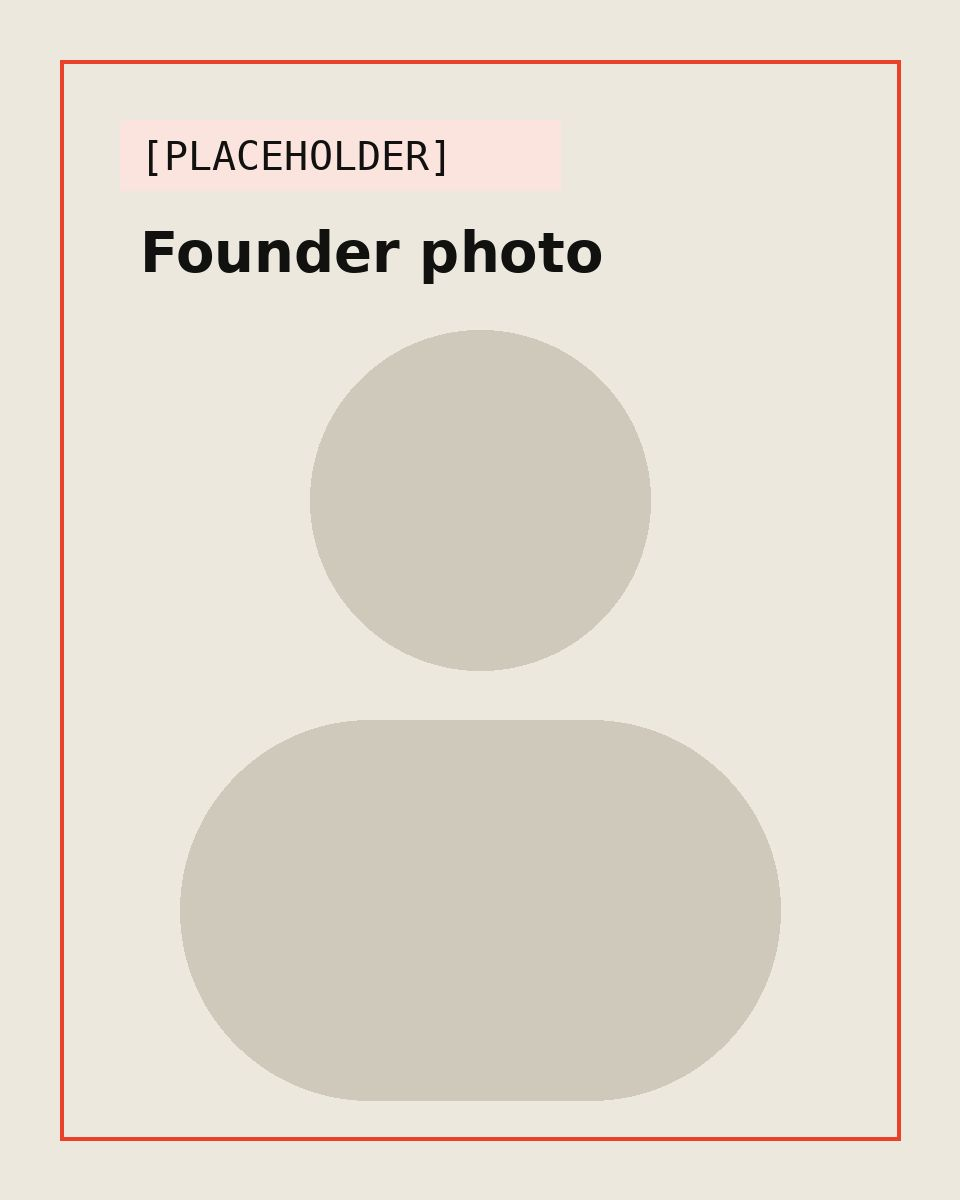
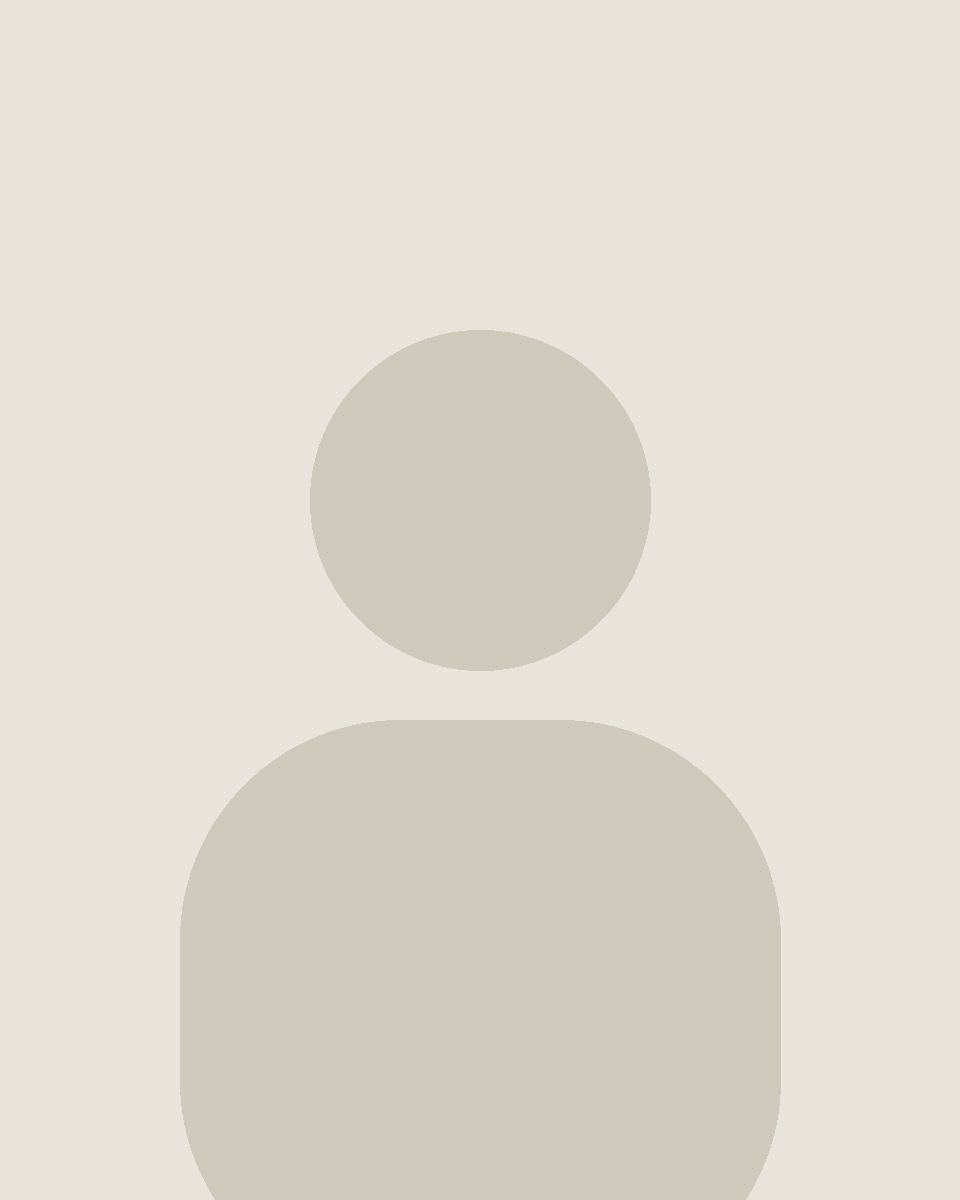
Hide placeholder labels for design review
- New showPlaceholderMarkers switch in src/config/site.ts (off): numbers and
  quotes render normally, with no [PLACEHOLDER] label or highlight
- Hidden data-placeholder markers stay, so the check still lists every item
  and still blocks production builds
- Draft FAQ answers and quotes replace "Placeholder answer" text; FAQ answers
  count as drafts until marked final
- Neutral styling for the Tally/Calendly stand-in boxes; founder photo
  stand-in redrawn without a label

Claude-Session: https://claude.ai/code/session_01QP5wrxUNGdLViVKkCNtwq6

diff --git a/src/config/site.ts b/src/config/site.ts
@@ -5,6 +5,11 @@
 // ─────────────────────────────────────────────────────────────
 
 export const PLACEHOLDER = 'PLACEHOLDER';
+// Design review mode: false hides the pink [PLACEHOLDER] labels so numbers and quotes
+// display normally. The safety check still finds every placeholder (hidden marker)
+// and still blocks production builds. Set to true to show the labels again.
+export const showPlaceholderMarkers = false;
+
 export const isSet = (v: string | undefined) => !!v && !v.includes(PLACEHOLDER);
 
 export const site = {
@@ -67,8 +72,8 @@ export const services: Service[] = [
       { title: 'Diagnose', body: 'We trace each citation back to the source page and explain why it won.' },
     ],
     faq: [
-      { q: 'Which AI engines do you cover?', a: 'ChatGPT, Perplexity, Google AI Overviews, Gemini and Claude. Placeholder answer, final list to confirm.' },
-      { q: 'How long does the audit take?', a: 'Placeholder answer. Timeline to be confirmed.' },
+      { q: 'Which AI engines do you cover?', a: 'ChatGPT, Perplexity, Google AI Overviews, Gemini and Claude.' },
+      { q: 'How long does the audit take?', a: 'Most audits are delivered within two weeks of kickoff.' },
     ],
   },
   {
@@ -92,8 +97,8 @@ export const services: Service[] = [
       { title: 'Publish and track', body: 'We track rankings and AI citations for every piece we ship.' },
     ],
     faq: [
-      { q: 'How many articles per month?', a: 'Placeholder answer. Volume depends on plan.' },
-      { q: 'Do you use AI to write?', a: 'Placeholder answer. Describe the human-led process here.' },
+      { q: 'How many articles per month?', a: 'Between four and eight, depending on depth and plan.' },
+      { q: 'Do you use AI to write?', a: 'Every piece starts from an expert interview and is written and edited by people. We use AI for research and checks, not for the writing.' },
     ],
   },
   {
@@ -117,8 +122,8 @@ export const services: Service[] = [
       { title: 'Re-test', body: 'We re-run the prompts and report the change in citations.' },
     ],
     faq: [
-      { q: 'How many pages per refresh?', a: 'Placeholder answer.' },
-      { q: 'Do you need CMS access?', a: 'Placeholder answer.' },
+      { q: 'How many pages per refresh?', a: 'Usually ten to twenty pages per cycle, starting with those closest to winning citations.' },
+      { q: 'Do you need CMS access?', a: 'It helps, but it is not required. We can deliver ready-to-paste updates instead.' },
     ],
   },
   {
@@ -142,8 +147,8 @@ export const services: Service[] = [
       { title: 'Publish', body: 'We schedule, publish and track what lands.' },
     ],
     faq: [
-      { q: 'How much founder time does this take?', a: 'Placeholder answer.' },
-      { q: 'Do you post on our behalf?', a: 'Placeholder answer.' },
+      { q: 'How much founder time does this take?', a: 'About one hour a month for the interview, plus quick approvals.' },
+      { q: 'Do you post on our behalf?', a: 'We can schedule and publish for you, or hand over posts for you to share.' },
     ],
   },
 ];

diff --git a/src/styles/global.css b/src/styles/global.css
@@ -116,7 +116,7 @@ ins.edit { text-decoration: none; background: linear-gradient(transparent 62%, v
 .actions { display: flex; flex-wrap: wrap; gap: 12px; }
 
 /* ───────────── Embeds (integration placeholders) ───────────── */
-.embed-ph { border: 1px dashed var(--redline); background: var(--redline-tint); padding: 24px; }
+.embed-ph { border: 1px dashed var(--hairline); background: var(--paper); padding: 24px; }
 .embed-ph ul { list-style: square; padding-left: 1.2em; margin: 12px 0; }
 
 @media (prefers-reduced-motion: reduce) {
